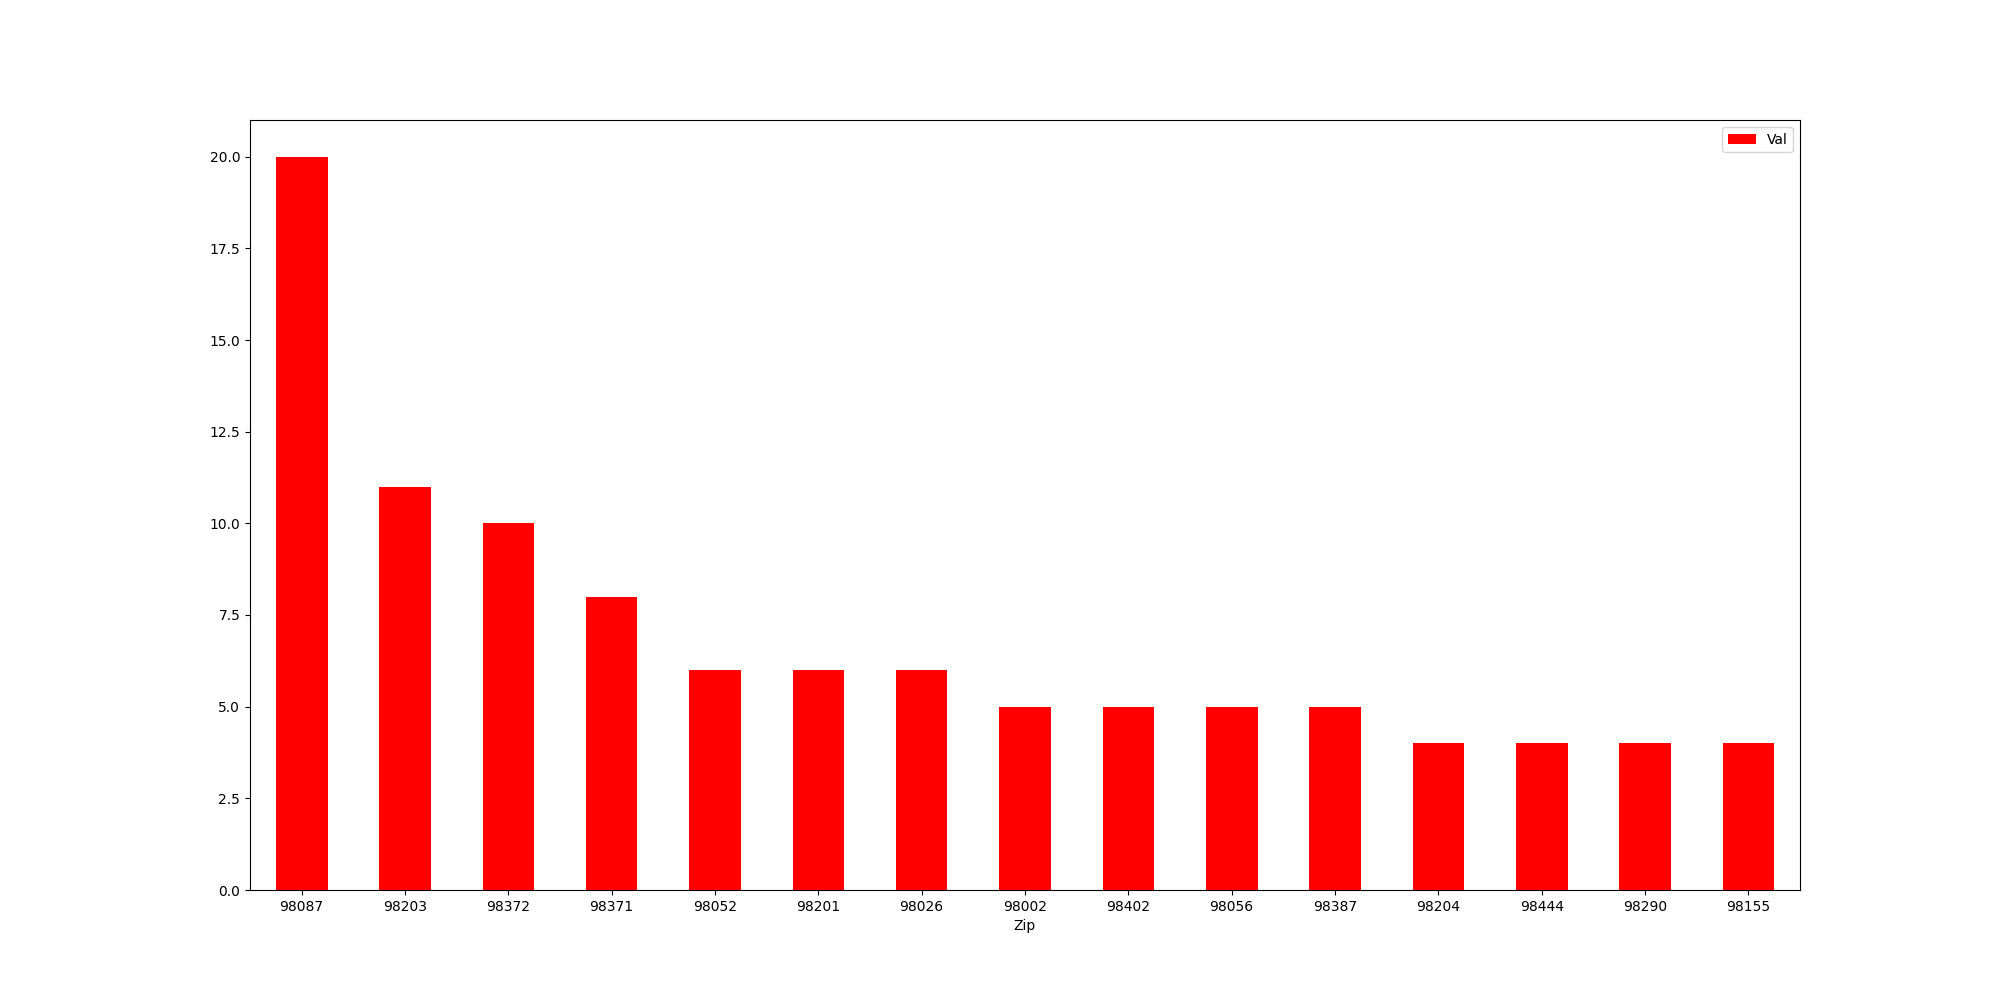
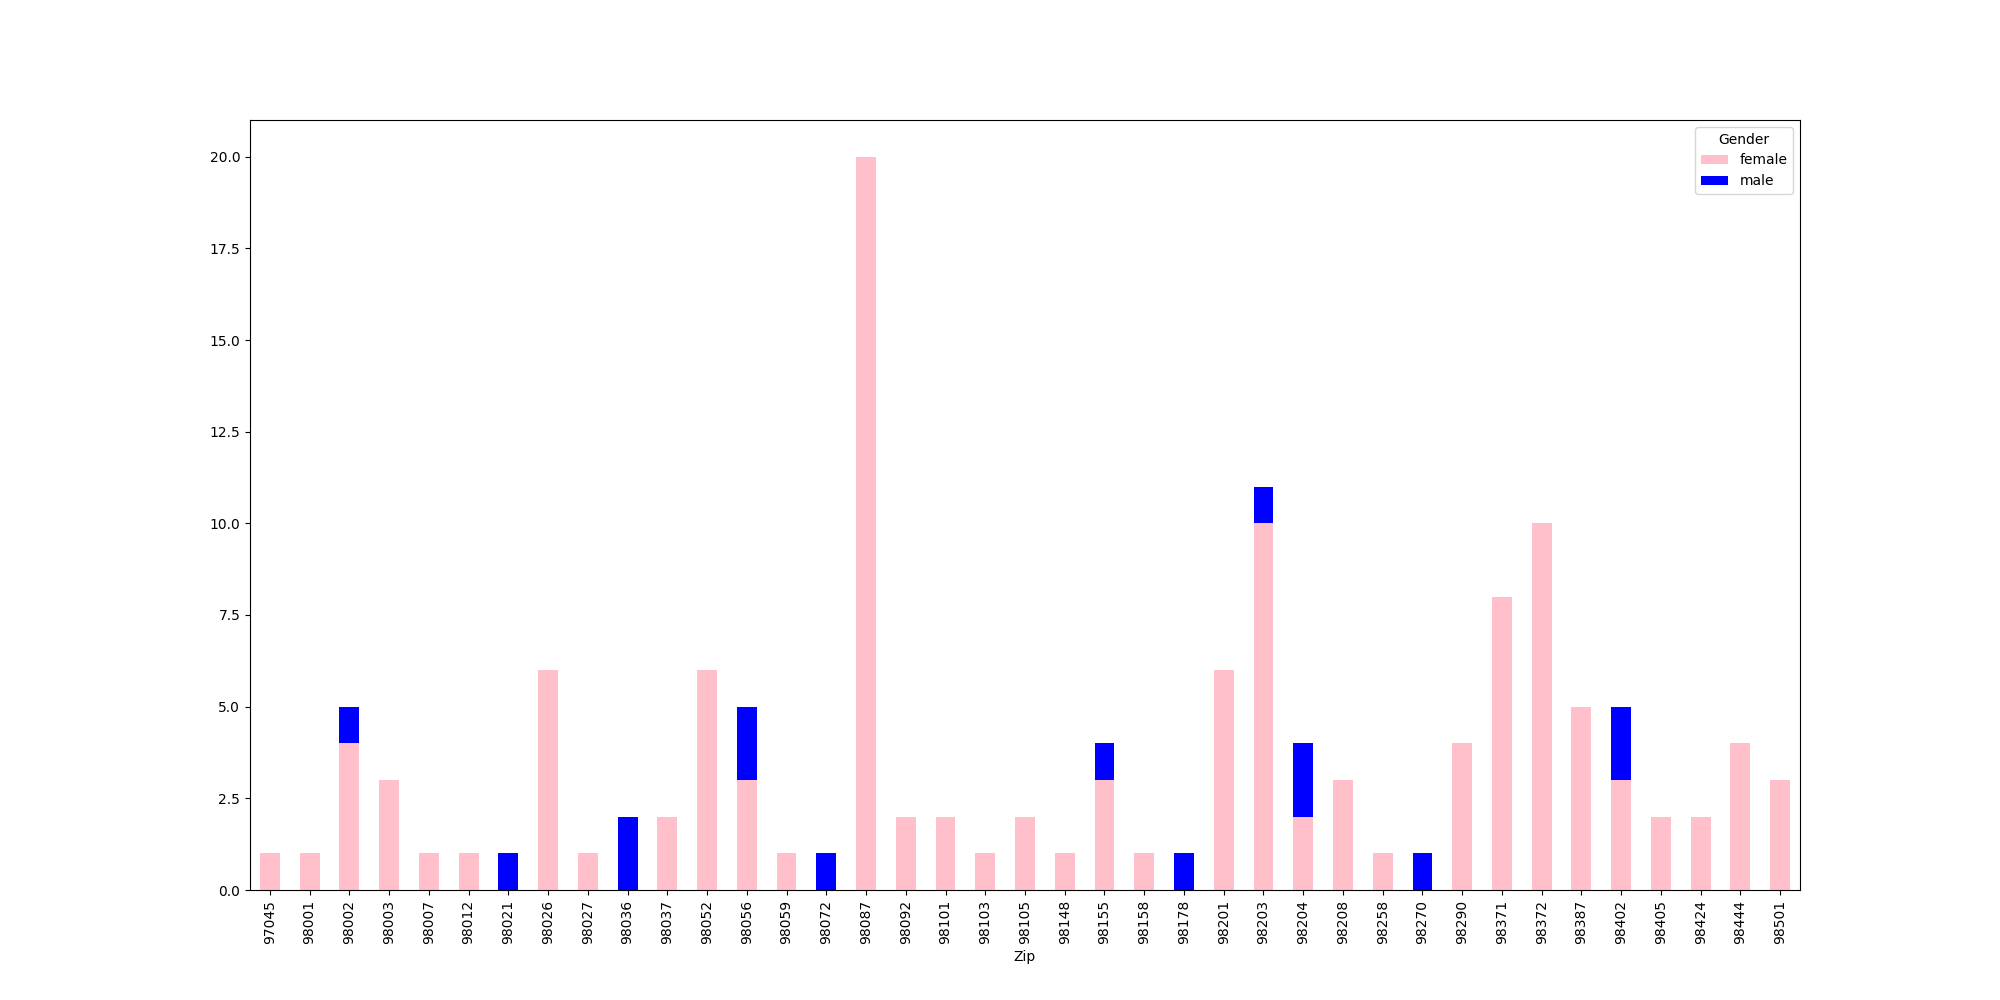
001 Updated Graph

Changed region(s): [[0.124, 0.155, 0.899, 0.961], [0.837, 0.124, 0.899, 0.186]]

diff --git a/src/warmline/timeandplace.py b/src/warmline/timeandplace.py
@@ -11,13 +11,22 @@ df["Zip"] = df["Zip"].astype(float).astype(int)
 
 #d = df[df["Age"] > df["Age"].quantile(0.5) ]
 
+"""
 d = df["Zip"].value_counts()[df["Zip"].value_counts().values > 3]
 df = pd.DataFrame({
     "Zip": d.index,
     "Val": d.values
 })
-print(df.plot.bar(x='Zip', y='Val', rot=0, color="red", figsize=(20, 10)))
+print(df.plot.bar(x='Zip',  stacked=True,  rot=0, color="red", figsize=(20, 10)))
 
+"""
+fig, ax = plt.subplots(figsize=(6, 4))
+
+
+d = df.groupby(['Zip', 'Gender'])['Zip'].count().unstack('Gender').fillna(0)
+plt.ylabel("Call Amounts")
+plt.title("Amount of Warmline Calls per Zip Code by Gender", loc="left", )
+print(d.plot(kind="bar", stacked=True,  figsize=(20, 10),color=['pink', 'blue']),)
 
 from func import save
 save(__file__)

diff --git a/src/warmline/totalcountsovertimegender.py b/src/warmline/totalcountsovertimegender.py
@@ -25,7 +25,7 @@ colors = {'female': 'Pink', 'male': 'Navy'}
 df = df.set_index("Date")
 
 for kind, data in df.groupby('Gender'):
-    data.resample("MS").sum().plot(label=str(kind), color=colors[kind.strip()], ax=ax, legend=kind)
+    data.resample("MS").sum().plot(label=str(kind), color=colors[kind.strip()], ax=ax, legend=str(kind))
 
 ax.set(xlabel='Month', ylabel="Times Used")
 
@@ -40,6 +40,7 @@ ax.set(xlabel='Month', ylabel="Times Used")
 
 
 
+ax.legend(["Female", "Male"]);
 
 ax.tick_params(reset=True, direction='out', pad=1.0, width=1, labelsize="small",zorder=2)
 fig.suptitle('Male v. Female Monthly Usage')
